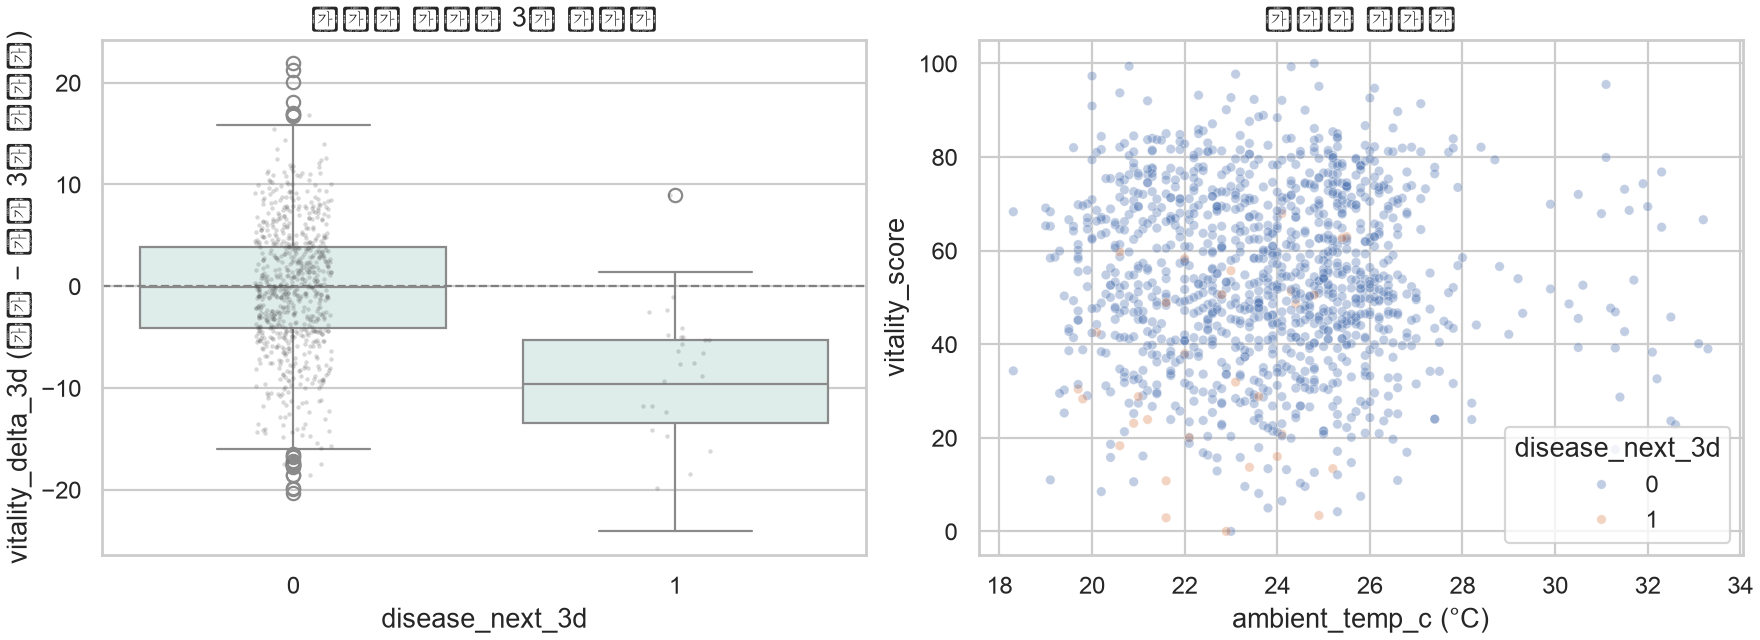
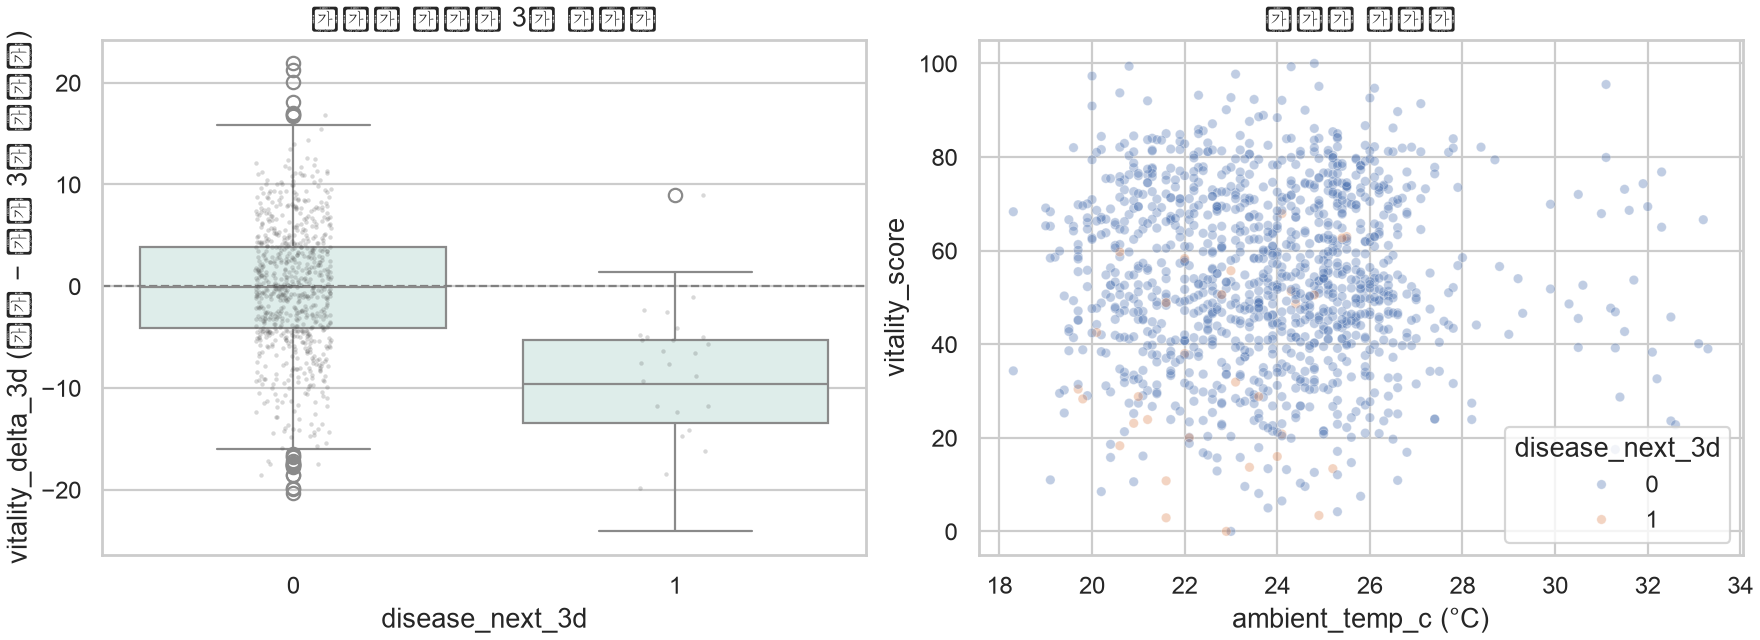
Update thesis visualizations with new PNG files for EDA vitality and model evaluation.

Changed region(s): [[0.125, 0.2188, 0.1875, 0.6875]]

diff --git a/paper/kvma_conference_draft.tex b/paper/kvma_conference_draft.tex
@@ -1,0 +1,141 @@
+% !TEX program = xelatex
+% 대한수의학회 학술대회 투고용 초고 (한국어)
+% Overleaf: Compiler = XeLaTeX, TeX Live 권장
+% 로컬: xelatex kvma_conference_draft.tex
+\documentclass[10pt,a4paper]{article}
+
+\usepackage{kotex}
+\usepackage[margin=20mm]{geometry}
+\usepackage{setspace}
+\usepackage{booktabs}
+\usepackage{graphicx}
+\usepackage{amsmath}
+\usepackage{hyperref}
+\usepackage{caption}
+\usepackage{titlesec}
+\usepackage{enumitem}
+
+\onehalfspacing
+\setlength{\parindent}{1em}
+\setlength{\parskip}{0.3em}
+\captionsetup{font=small,labelfont=bf}
+\setlist[itemize]{leftmargin=1.5em,itemsep=0.2em,topsep=0.3em}
+
+\titleformat{\section}{\bfseries\large}{\thesection.}{0.5em}{}
+\titleformat{\subsection}{\bfseries\normalsize}{\thesubsection.}{0.4em}{}
+\titlespacing*{\section}{0pt}{1.2em}{0.5em}
+\titlespacing*{\subsection}{0pt}{0.9em}{0.3em}
+
+% paper/ 에서 컴파일할 때 결과 그림 경로
+\graphicspath{{../results/}{results/}}
+
+\begin{document}
+
+\begin{center}
+{\large\bfseries 카메라 기반 일별 활력도 변화와\\
+향후 3일 이내 돼지 질병 확인 위험의 연관성 평가}\\[0.6em]
+{\normalsize Association between camera-based daily vitality changes\\
+and risk of veterinarian-confirmed disease within 3 days in pigs}\\[1.0em]
+{\normalsize 홍길동$^{1}$\textsuperscript{*}, 김철수$^{1}$}\\[0.4em]
+{\small $^{1}$○○대학교 수의과대학}\\[0.3em]
+{\small \textsuperscript{*}교신저자: hong@example.ac.kr}\\[0.6em]
+{\small 발표형태: 구두 / 포스터 (택일)\quad 분야: 돼지$\cdot$예방수의학}
+\end{center}
+
+\vspace{0.4em}
+\noindent\textbf{요약}\\
+본 연구는 영상$\cdot$환경센서 기반 일별 활력도 및 최근 3일 변화량이 향후 3일 이내 수의사 확인 질병 위험을 어느 정도 구분하는지 평가하였다. 합성 관찰자료(8돈방, 120두, 42일)를 시간순으로 분할한 뒤 로지스틱 회귀로 기초모형(M0), 당일 활력모형(M1), 변화량 포함모형(M2)을 비교하였다. 검사자료($n=666$, 양성 25)에서 AUPRC는 M0 0.051, M1 0.488, M2 0.759였다. 결과는 조기경보 보조지표로서의 가능성을 시사하나, 합성자료$\cdot$단일 설정$\cdot$라벨 지연 한계로 진단 또는 현장 적용을 주장하지 않는다.
+
+\noindent\textbf{핵심어:} 돼지, 활력도, 조기경보, 영상행동, 예측모형
+
+\vspace{0.5em}
+\begin{center}\rule{0.95\textwidth}{0.4pt}\end{center}
+
+\section{서론}
+
+돼지는 질병 초기에 활동량, 섭식$\cdot$음수, 자세 및 사회적 접촉이 변할 수 있다. 순회 관찰만으로 개체-일 단위의 미세 변화를 연속 확인하기는 어렵다. 영상$\cdot$센서 지표를 이용해 수의사 확인이 필요한 개체를 우선 선별하는 조기경보 접근이 검토되어 왔다.
+
+본 연구의 목적은 다음이다. (1) 임상발현 1--3일 전 활력도가 개체 기준선보다 낮은지 기술한다. (2) 당일 활력지표에 최근 3일 변화량을 추가한 모형이 기초모형보다 예측력이 높은지 비교한다. (3) 온도$\cdot$습도$\cdot$돈방을 보정한 뒤에도 변화량 항의 기여가 남는지 확인한다.
+
+가설은 다음과 같다. H1: \texttt{vitality\_delta\_3d} 감소와 \texttt{disease\_next\_3d}=1의 연관. H2: 변화량 포함모형(M2)의 AUPRC가 기초모형(M0)보다 큼. 출력은 진단이 아니라 관찰 우선순위용 위험도이다.
+
+\section{재료 및 방법}
+
+\subsection{자료}
+
+교육용 합성자료를 사용하였다\cite{synth}. 구성은 개체 메타데이터 120행, 일별 관찰 약 5,045행, 수의사 확인 질병 이벤트 36건이다. 품질관리(중복 제거, \texttt{valid}=False 제외, 카메라 커버리지 70\% 미만 및 범위 오류 제외) 후 라벨$\cdot$과거 변화량을 결합한 분석용 자료(약 4,269 개체-일)를 사용하였다.
+
+측정단위는 개체-일(pig-day)이다. 결과변수 \texttt{disease\_next\_3d}는 관찰일 다음 날부터 3일 이내 임상발현일 존재 여부이다. 처치일$\cdot$회복일$\cdot$확인일은 예측변수로 사용하지 않았다. 과거 변화량은 관찰일 이전 최대 3일 중앙값 대비 차이(\texttt{vitality\_delta\_3d}, \texttt{activity\_delta\_pct\_3d}) 및 이전 3일 기침 합(\texttt{cough\_events\_prior\_3d})으로 정의하였다.
+
+\subsection{모형}
+
+비교 모형은 세 가지이다.
+\begin{itemize}
+  \item M0(기초): 일령, 체중, 온도, 습도, 돈방
+  \item M1(당일 활력): M0 + 당일 행동$\cdot$활력도$\cdot$카메라 커버리지
+  \item M2(변화): M1 + \texttt{vitality\_delta\_3d}, \texttt{activity\_delta\_pct\_3d}, \texttt{cough\_events\_prior\_3d}
+\end{itemize}
+
+분류기는 class-weight 균형 로지스틱 회귀이다. 범주형 변수는 one-hot, 연속형은 중앙값 대치 후 표준화하였다. 분할은 연구일 기준 시간순이다(train 0--25, validation 26--33, test 34--41). 동일 개체의 인접일을 임의 행 분할하지 않았다. 임계값은 validation에서 민감도 $\geq 0.80$을 만족하는 후보 중 정밀도 최대로 선택하고, test는 1회만 평가하였다.
+
+\subsection{평가}
+
+주지표는 AUPRC이다. 보조지표는 AUROC, 민감도, 특이도, 양성예측도(PPV), 돼지 100두$\cdot$일당 경보 수이다. 양성률이 낮아 정확도는 주지표로 사용하지 않았다. 모형 비교는 동일 test 표본에서 수행하였다($n=666$, 양성 25).
+
+\section{결과}
+
+양성(\texttt{disease\_next\_3d}=1) 개체-일에서 활력도 3일 변화량의 분포는 음성군과 분리되는 경향을 보였다(그림~\ref{fig:eda}). test 성능은 표~\ref{tab:metrics}과 같다. AUPRC는 M0 0.051, M1 0.488, M2 0.759였고, AUROC는 각각 0.574, 0.901, 0.982였다. M2의 민감도 0.68, PPV 0.77, 경보량 3.3/100 pig-days였다. M0은 validation에서 설정한 임계값을 test에 적용했을 때 진양성이 없었다(민감도 0). Precision--Recall 곡선과 M2 예측확률 분포는 그림~\ref{fig:pr}에 제시하였다.
+
+\begin{table}[ht]
+\centering
+\caption{검사자료(test) 모형 성능}
+\label{tab:metrics}
+\begin{tabular}{lcccccc}
+\toprule
+모형 & AUPRC & AUROC & 민감도 & 특이도 & PPV & 경보/100두$\cdot$일 \\
+\midrule
+M0 & 0.051 & 0.574 & 0.00 & 0.989 & 0.00 & 1.05 \\
+M1 & 0.488 & 0.901 & 0.40 & 0.991 & 0.63 & 2.40 \\
+M2 & 0.759 & 0.982 & 0.68 & 0.992 & 0.77 & 3.30 \\
+\bottomrule
+\end{tabular}
+\end{table}
+
+\begin{figure}[ht]
+\centering
+\includegraphics[width=0.92\textwidth]{thesis_eda_vitality.png}
+\caption{라벨별 \texttt{vitality\_delta\_3d} 분포(좌)와 온도와 활력도 산점도(우).}
+\label{fig:eda}
+\end{figure}
+
+\begin{figure}[ht]
+\centering
+\includegraphics[width=0.92\textwidth]{thesis_model_evaluation.png}
+\caption{M2의 test Precision--Recall 곡선(좌)과 예측확률 분포(우). 점선은 양성 유병률.}
+\label{fig:pr}
+\end{figure}
+
+\section{고찰}
+
+동일 test에서 M0보다 M1$\cdot$M2의 AUPRC가 높았다. 당일 행동$\cdot$활력지표와 최근 3일 변화량 추가가 구분력 향상에 기여한 것으로 해석된다. 이는 H2와 방향이 일치한다. 다만 관찰연관이며 인과를 주장하지 않는다.
+
+한계는 명확하다. 자료는 합성이다. 외부 농장 검증이 없다. 수의사 확인 시점은 실제 임상발현보다 늦을 수 있다. 고온$\cdot$다습과 카메라 사각지대는 활력 저하와 혼동될 수 있다. 돈방$\cdot$사양 차이가 지름길 학습을 유발할 수 있다. M0의 test 민감도 0은 임계값의 분할 간 일반화 실패를 보여 주며, 운영 임계값은 현장 목표 민감도$\cdot$허용 경보량을 기준으로 재설정해야 한다.
+
+결론적으로, 본 합성자료 분석에서 최근 3일 활력 변화량을 포함한 모형이 기초모형보다 높은 AUPRC를 보였다. 출력은 진단이 아니라 확인 우선순위 보조정보로만 해석한다. 현장 적용 전에는 외부 검증, 라벨 정확성, 비용--민감도 분석이 필요하다.
+
+\vspace{0.8em}
+\noindent\textbf{이해상충:} 없음.\\
+\textbf{연구비:} 해당 없음(교육용 분석).\\
+\textbf{자료 고지:} 본 분석에 사용한 수치는 실제 농장$\cdot$개체$\cdot$임상기록과 무관한 합성자료이다.\\
+\textbf{AI 사용:} 초고 작성에 생성형 AI를 보조로 사용하였으며, 수치$\cdot$코드$\cdot$해석은 원자료 실행 결과와 대조하여 확인하였다.
+
+\begin{thebibliography}{9}
+\bibitem{synth}
+교육용 합성자료 패키지. 돼지 활력도 기반 질병 위험 예측 실습. 내부 자료.
+\bibitem{Matthews2016}
+Matthews SG, et al. Early detection of health and welfare compromises through automated detection of behavioural changes in pigs. \textit{Vet J}. 2016.
+\bibitem{Fernandez2017}
+Fern\'andez-Carri\'on E, et al. Motion-based video monitoring for early detection of livestock diseases: The case of African swine fever. \textit{PLoS One}. 2017.
+\end{thebibliography}
+
+\end{document}
